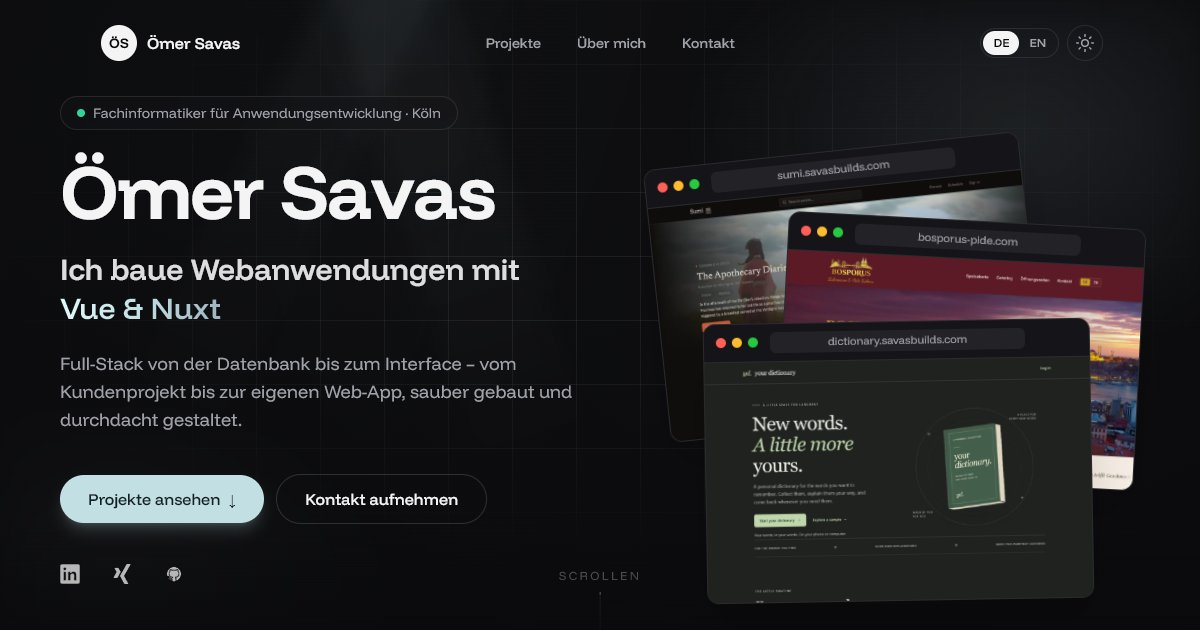
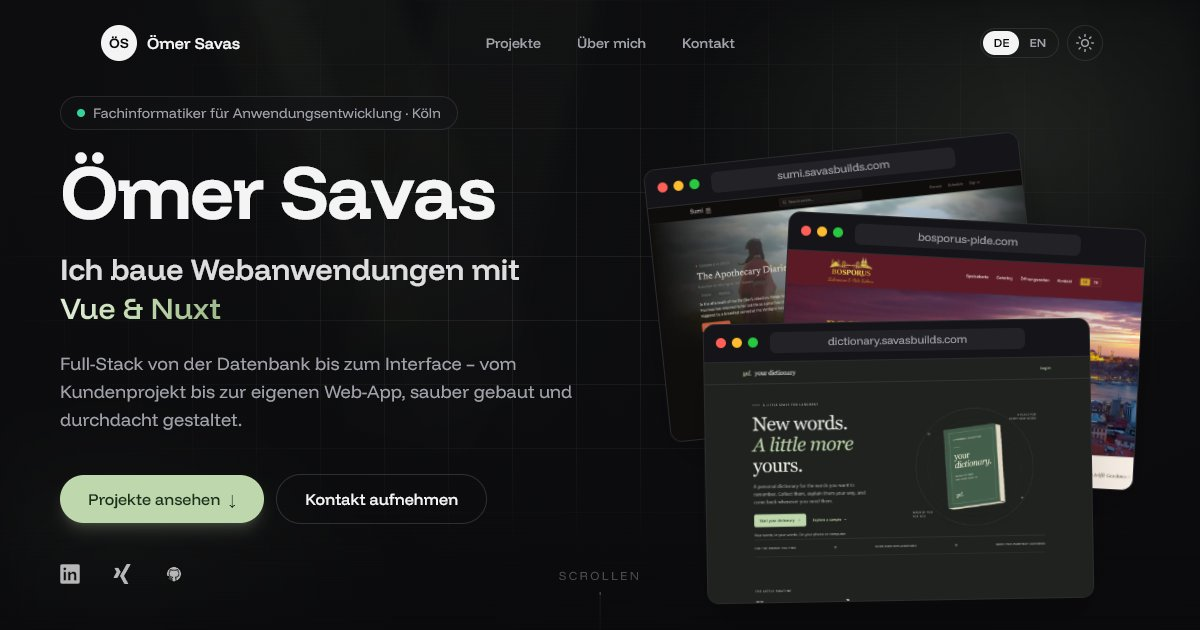
style: use sage and forest green for buttons and accents
Greens match the Your Dictionary project: forest #314739 buttons in
light mode, sage #BED7AC in dark mode. Paper background and text stay
unchanged.

Changed region(s): [[0.0308, 0.754, 0.2467, 0.8444], [0.0617, 0.4825, 0.185, 0.5127]]

diff --git a/src/index.css b/src/index.css
@@ -27,9 +27,9 @@
 }
 
 /*
- * Palette: neutral "paper" surfaces with slate/cyan accents
- * (Light Blue #C2DFE3, Cool Steel #9DB4C0, Jet Black #253237).
- *  - cta:    button fill (Jet Black in light, Light Blue in dark)
+ * Palette: neutral "paper" surfaces with sage/forest green accents
+ * (taken from the Your Dictionary project: sage #BED7AC, forest #314739).
+ *  - cta:    button fill (forest in light, sage in dark)
  *  - accent: small highlights – labels, numbers, bullets
  * Dark values live in @theme (default), light values override on html.light.
  */
@@ -39,10 +39,10 @@
   --color-ink: #f4f4f5;
   --color-muted: #a1a1aa;
   --color-subtle: #71717a;
-  --color-accent: #a6d5dc;
-  --color-accent-2: #9db4c0;
-  --color-cta: #c2dfe3;
-  --color-on-accent: #162024;
+  --color-accent: #bed7ac;
+  --color-accent-2: #9cb98a;
+  --color-cta: #bed7ac;
+  --color-on-accent: #1b301c;
   --color-mint: #34d399;
   --color-sand: #fbbf24;
 }
@@ -57,10 +57,10 @@ html.light {
   --color-ink: #18181b;
   --color-muted: #52525b;
   --color-subtle: #71717a;
-  --color-accent: #3b6f7a;
-  --color-accent-2: #5c8d99;
-  --color-cta: #253237;
-  --color-on-accent: #ffffff;
+  --color-accent: #445e4c;
+  --color-accent-2: #5f7d65;
+  --color-cta: #314739;
+  --color-on-accent: #edf0e7;
   --color-mint: #059669;
   --color-sand: #d97706;
 
@@ -111,19 +111,19 @@ section[id] {
 
 /* ---------- Hero ---------- */
 :root {
-  --grad-from: #e0fbfc;
-  --grad-via: #c2dfe3;
-  --grad-to: #9db4c0;
-  --aurora-a: rgb(157 180 192 / 0.12);
-  --aurora-b: rgb(157 180 192 / 0.04);
+  --grad-from: #e3eedb;
+  --grad-via: #bed7ac;
+  --grad-to: #9cb98a;
+  --aurora-a: rgb(190 215 172 / 0.10);
+  --aurora-b: rgb(190 215 172 / 0.04);
 }
 
 html.light {
-  --grad-from: #253237;
-  --grad-via: #3b6f7a;
-  --grad-to: #5c8d99;
-  --aurora-a: rgb(157 180 192 / 0.18);
-  --aurora-b: rgb(157 180 192 / 0.05);
+  --grad-from: #1b301c;
+  --grad-via: #314739;
+  --grad-to: #5f7d65;
+  --aurora-a: rgb(156 185 138 / 0.18);
+  --aurora-b: rgb(156 185 138 / 0.05);
 }
 
 .text-gradient {

diff --git a/src/sections/Hero.tsx b/src/sections/Hero.tsx
@@ -15,8 +15,8 @@ import { useTheme } from "../theme";
 import { asset } from "../lib/utils";
 
 const RAY_COLOR = {
-  dark: "rgba(194, 223, 227, 0.07)",
-  light: "rgba(92, 107, 115, 0.12)",
+  dark: "rgba(190, 215, 172, 0.07)",
+  light: "rgba(68, 94, 76, 0.10)",
 } as const;
 
 const NAME = "Ömer Savas";

diff --git a/src/App.tsx b/src/App.tsx
@@ -61,7 +61,7 @@ function App() {
         className="fixed inset-0 z-0"
         quantity={90}
         ease={80}
-        color={theme === "light" ? "#9db4c0" : "#4d6068"}
+        color={theme === "light" ? "#b6c2b7" : "#3f4d40"}
         refresh
       />
       <main>
